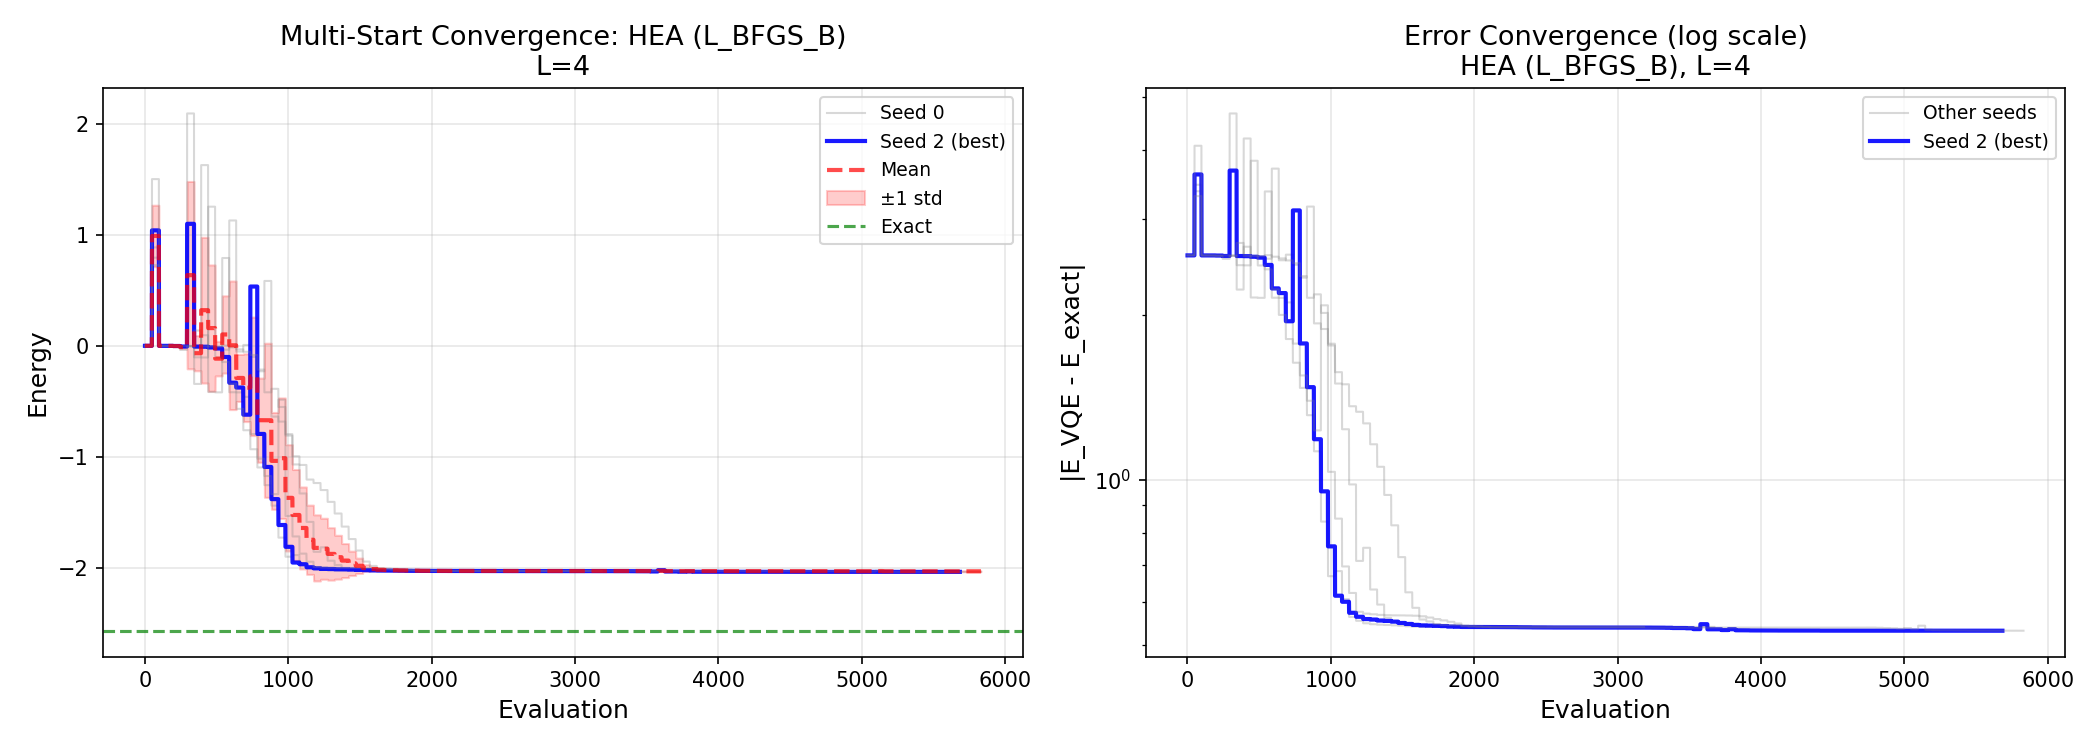
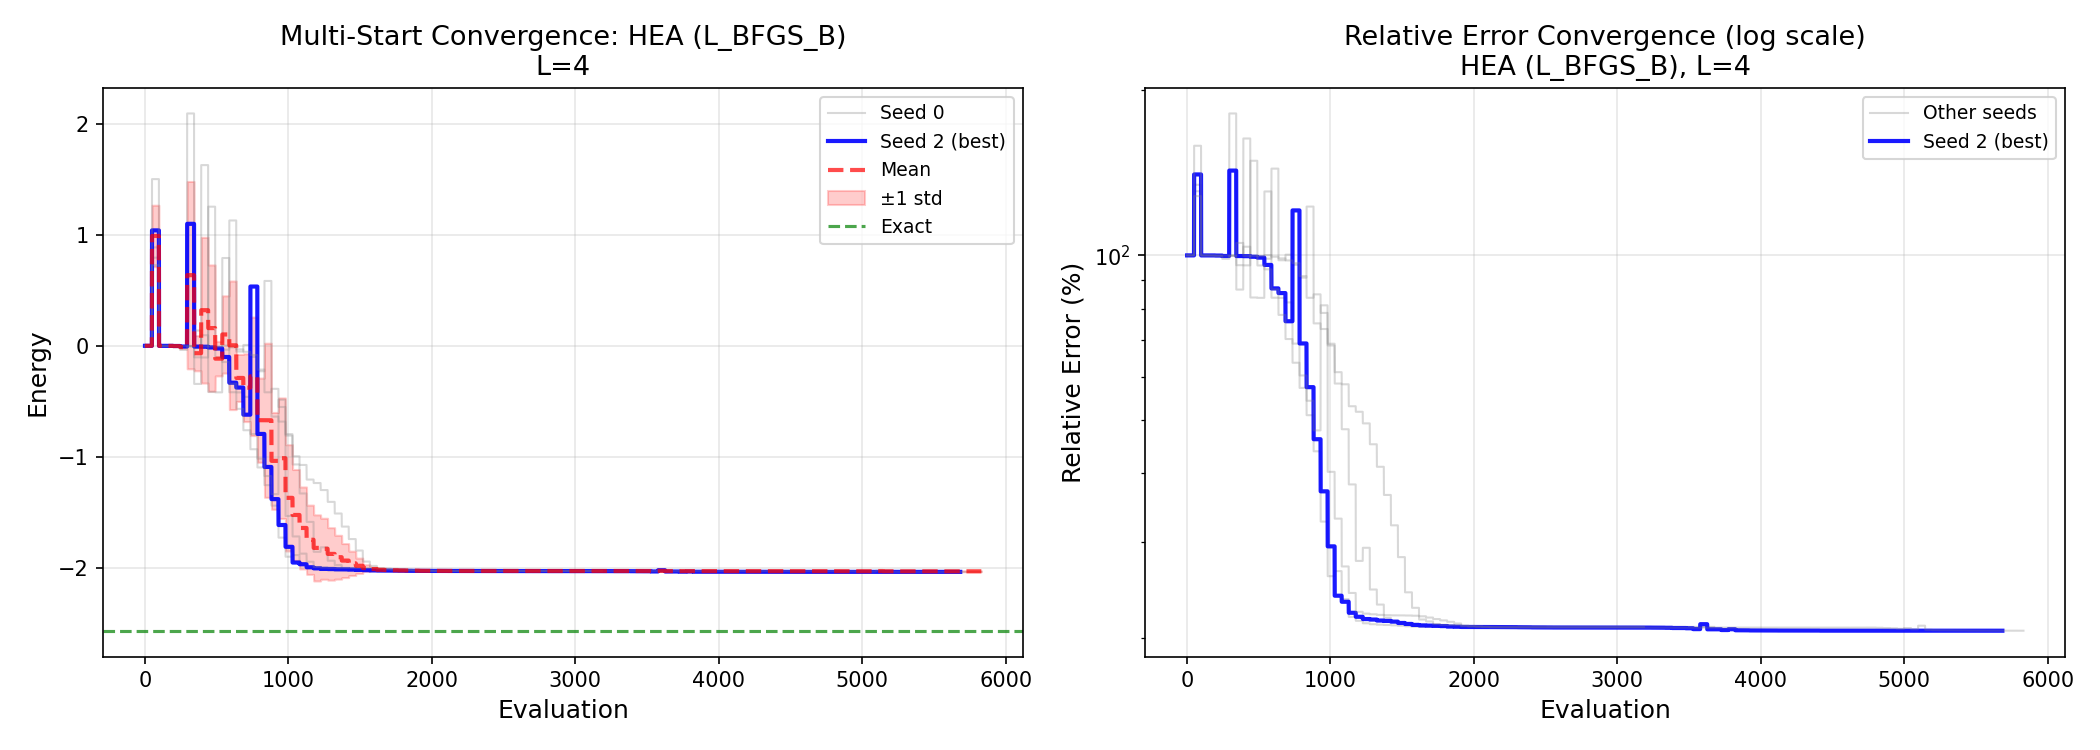
Regenerate L=4 plots with relative error percentage
Updated all 9 convergence plots to show relative error percentage (%) instead of absolute error:
- Error formula: 100 * |E_VQE - E_exact| / |E_exact|
- Y-axis label: 'Relative Error (%)'
- More intuitive and easier to interpret
- Better comparison across different energy scales
- Log-scale visualization shows convergence more clearly

Files updated:
- All 9 convergence plots (3 ansätze × 3 optimizers)
- Same VQE results, only visualization changed
- Total runtime: 561.0s

Plots show:
- Gray lines: All 5 seed trajectories
- Blue line: Best seed (lowest energy)
- Red dashed: Mean trajectory
- Red band: ±1 std deviation
- Green dashed: Exact energy reference

diff --git a/docs/test_results_L4.md b/docs/test_results_L4.md
@@ -1,6 +1,6 @@
 # Multi-Start VQE Benchmark Results
 
-Generated: 2025-11-16 09:15:01
+Generated: 2025-11-16 09:43:58
 
 ## Configuration
 
@@ -54,91 +54,91 @@ Generated: 2025-11-16 09:15:01
 
 | Seed | Energy | Evaluations | Runtime (s) | Convergence Steps |
 |------|--------|-------------|-------------|-------------------|
-| 0 | -2.0307763856 | 3675 | 22.76 | 3675 |
-| 1 | -2.0307763949 | 2499 | 15.63 | 2499 |
-| 2 | -2.0393531700 | 5684 | 35.43 | 5684 |
-| 3 | -2.0307763982 | 3185 | 19.46 | 3185 |
-| 4 | -2.0393368810 | 5831 | 36.38 | 5831 |
+| 0 | -2.0307763856 | 3675 | 22.05 | 3675 |
+| 1 | -2.0307763949 | 2499 | 15.36 | 2499 |
+| 2 | -2.0393531700 | 5684 | 34.54 | 5684 |
+| 3 | -2.0307763982 | 3185 | 18.76 | 3185 |
+| 4 | -2.0393368810 | 5831 | 35.15 | 5831 |
 
 ### HEA - COBYLA
 
 | Seed | Energy | Evaluations | Runtime (s) | Convergence Steps |
 |------|--------|-------------|-------------|-------------------|
-| 0 | -1.1160577457 | 100 | 0.81 | 100 |
-| 1 | -1.0933206125 | 100 | 0.82 | 100 |
-| 2 | -0.8418597728 | 100 | 0.81 | 100 |
-| 3 | -1.0528665064 | 100 | 0.84 | 100 |
-| 4 | -1.1662239410 | 100 | 0.76 | 100 |
+| 0 | -1.1160577457 | 100 | 0.79 | 100 |
+| 1 | -1.0933206125 | 100 | 0.74 | 100 |
+| 2 | -0.8418597728 | 100 | 0.73 | 100 |
+| 3 | -1.0528665064 | 100 | 0.73 | 100 |
+| 4 | -1.1662239410 | 100 | 0.72 | 100 |
 
 ### HEA - SLSQP
 
 | Seed | Energy | Evaluations | Runtime (s) | Convergence Steps |
 |------|--------|-------------|-------------|-------------------|
-| 0 | -2.0307755807 | 1483 | 9.76 | 1483 |
-| 1 | -2.0393523823 | 2658 | 16.63 | 2658 |
-| 2 | -2.0307759943 | 1773 | 11.70 | 1773 |
-| 3 | -2.0307763227 | 1821 | 11.57 | 1821 |
-| 4 | -2.0393523643 | 3294 | 20.54 | 3294 |
+| 0 | -2.0307755807 | 1483 | 8.88 | 1483 |
+| 1 | -2.0393523823 | 2658 | 17.20 | 2658 |
+| 2 | -2.0307759943 | 1773 | 11.53 | 1773 |
+| 3 | -2.0307763227 | 1821 | 11.18 | 1821 |
+| 4 | -2.0393523643 | 3294 | 20.39 | 3294 |
 
 ### HVA - L_BFGS_B
 
 | Seed | Energy | Evaluations | Runtime (s) | Convergence Steps |
 |------|--------|-------------|-------------|-------------------|
-| 0 | -2.0621297265 | 2541 | 12.43 | 2541 |
-| 1 | -2.0620496839 | 2457 | 12.84 | 2457 |
-| 2 | -2.0744842272 | 2352 | 11.91 | 2352 |
-| 3 | -2.0658322752 | 2457 | 12.04 | 2457 |
-| 4 | -2.0791919997 | 2436 | 11.83 | 2436 |
+| 0 | -2.0621297265 | 2541 | 13.39 | 2541 |
+| 1 | -2.0620496839 | 2457 | 12.58 | 2457 |
+| 2 | -2.0744842272 | 2352 | 11.51 | 2352 |
+| 3 | -2.0658322752 | 2457 | 11.59 | 2457 |
+| 4 | -2.0791919997 | 2436 | 11.60 | 2436 |
 
 ### HVA - COBYLA
 
 | Seed | Energy | Evaluations | Runtime (s) | Convergence Steps |
 |------|--------|-------------|-------------|-------------------|
-| 0 | -1.8342006015 | 100 | 0.62 | 100 |
-| 1 | -1.6743504669 | 100 | 0.64 | 100 |
-| 2 | -1.9893945701 | 100 | 0.62 | 100 |
-| 3 | -1.9069218262 | 100 | 0.60 | 100 |
-| 4 | -1.9372440983 | 100 | 0.62 | 100 |
+| 0 | -1.8342006015 | 100 | 0.63 | 100 |
+| 1 | -1.6743504669 | 100 | 0.62 | 100 |
+| 2 | -1.9893945701 | 100 | 0.63 | 100 |
+| 3 | -1.9069218262 | 100 | 0.58 | 100 |
+| 4 | -1.9372440983 | 100 | 0.64 | 100 |
 
 ### HVA - SLSQP
 
 | Seed | Energy | Evaluations | Runtime (s) | Convergence Steps |
 |------|--------|-------------|-------------|-------------------|
-| 0 | -2.0621347574 | 1188 | 5.75 | 1188 |
-| 1 | -2.0620688797 | 881 | 4.37 | 881 |
-| 2 | -2.0870500607 | 1450 | 6.99 | 1450 |
-| 3 | -2.1043269455 | 2150 | 10.52 | 2150 |
-| 4 | -2.0868538245 | 1599 | 7.83 | 1599 |
+| 0 | -2.0621347574 | 1188 | 5.66 | 1188 |
+| 1 | -2.0620688797 | 881 | 4.18 | 881 |
+| 2 | -2.0870500607 | 1450 | 7.18 | 1450 |
+| 3 | -2.1043269455 | 2150 | 10.13 | 2150 |
+| 4 | -2.0868538245 | 1599 | 7.76 | 1599 |
 
 ### NP_HVA - L_BFGS_B
 
 | Seed | Energy | Evaluations | Runtime (s) | Convergence Steps |
 |------|--------|-------------|-------------|-------------------|
-| 0 | -2.4778802004 | 3729 | 27.48 | 3729 |
-| 1 | -2.4777773950 | 3861 | 28.67 | 3861 |
-| 2 | -2.4412538686 | 3828 | 28.81 | 3828 |
-| 3 | -2.4766408655 | 3927 | 29.83 | 3927 |
-| 4 | -2.4779019802 | 3762 | 29.54 | 3762 |
+| 0 | -2.4778802004 | 3729 | 27.39 | 3729 |
+| 1 | -2.4777773950 | 3861 | 28.74 | 3861 |
+| 2 | -2.4412538686 | 3828 | 28.54 | 3828 |
+| 3 | -2.4766408655 | 3927 | 28.99 | 3927 |
+| 4 | -2.4779019802 | 3762 | 27.57 | 3762 |
 
 ### NP_HVA - COBYLA
 
 | Seed | Energy | Evaluations | Runtime (s) | Convergence Steps |
 |------|--------|-------------|-------------|-------------------|
-| 0 | -1.1572961017 | 100 | 0.83 | 100 |
-| 1 | -1.1123605933 | 100 | 0.81 | 100 |
-| 2 | -1.2240526521 | 100 | 0.82 | 100 |
-| 3 | -1.1989858874 | 100 | 0.84 | 100 |
-| 4 | -1.2067430852 | 100 | 0.85 | 100 |
+| 0 | -1.1572961017 | 100 | 0.82 | 100 |
+| 1 | -1.1123605933 | 100 | 0.83 | 100 |
+| 2 | -1.2240526521 | 100 | 0.85 | 100 |
+| 3 | -1.1989858874 | 100 | 0.88 | 100 |
+| 4 | -1.2067430852 | 100 | 0.87 | 100 |
 
 ### NP_HVA - SLSQP
 
 | Seed | Energy | Evaluations | Runtime (s) | Convergence Steps |
 |------|--------|-------------|-------------|-------------------|
-| 0 | -2.4778176516 | 2226 | 16.40 | 2226 |
-| 1 | -2.4777700792 | 3360 | 24.74 | 3360 |
-| 2 | -2.4765328467 | 3353 | 24.14 | 3353 |
-| 3 | -2.1699306451 | 3362 | 25.10 | 3362 |
-| 4 | -2.4777873862 | 2459 | 18.18 | 2459 |
+| 0 | -2.4778176516 | 2226 | 16.33 | 2226 |
+| 1 | -2.4777700792 | 3360 | 24.82 | 3360 |
+| 2 | -2.4765328467 | 3353 | 26.04 | 3353 |
+| 3 | -2.1699306451 | 3362 | 28.11 | 3362 |
+| 4 | -2.4777873862 | 2459 | 18.16 | 2459 |
 
 ### Convergence Plots
 
